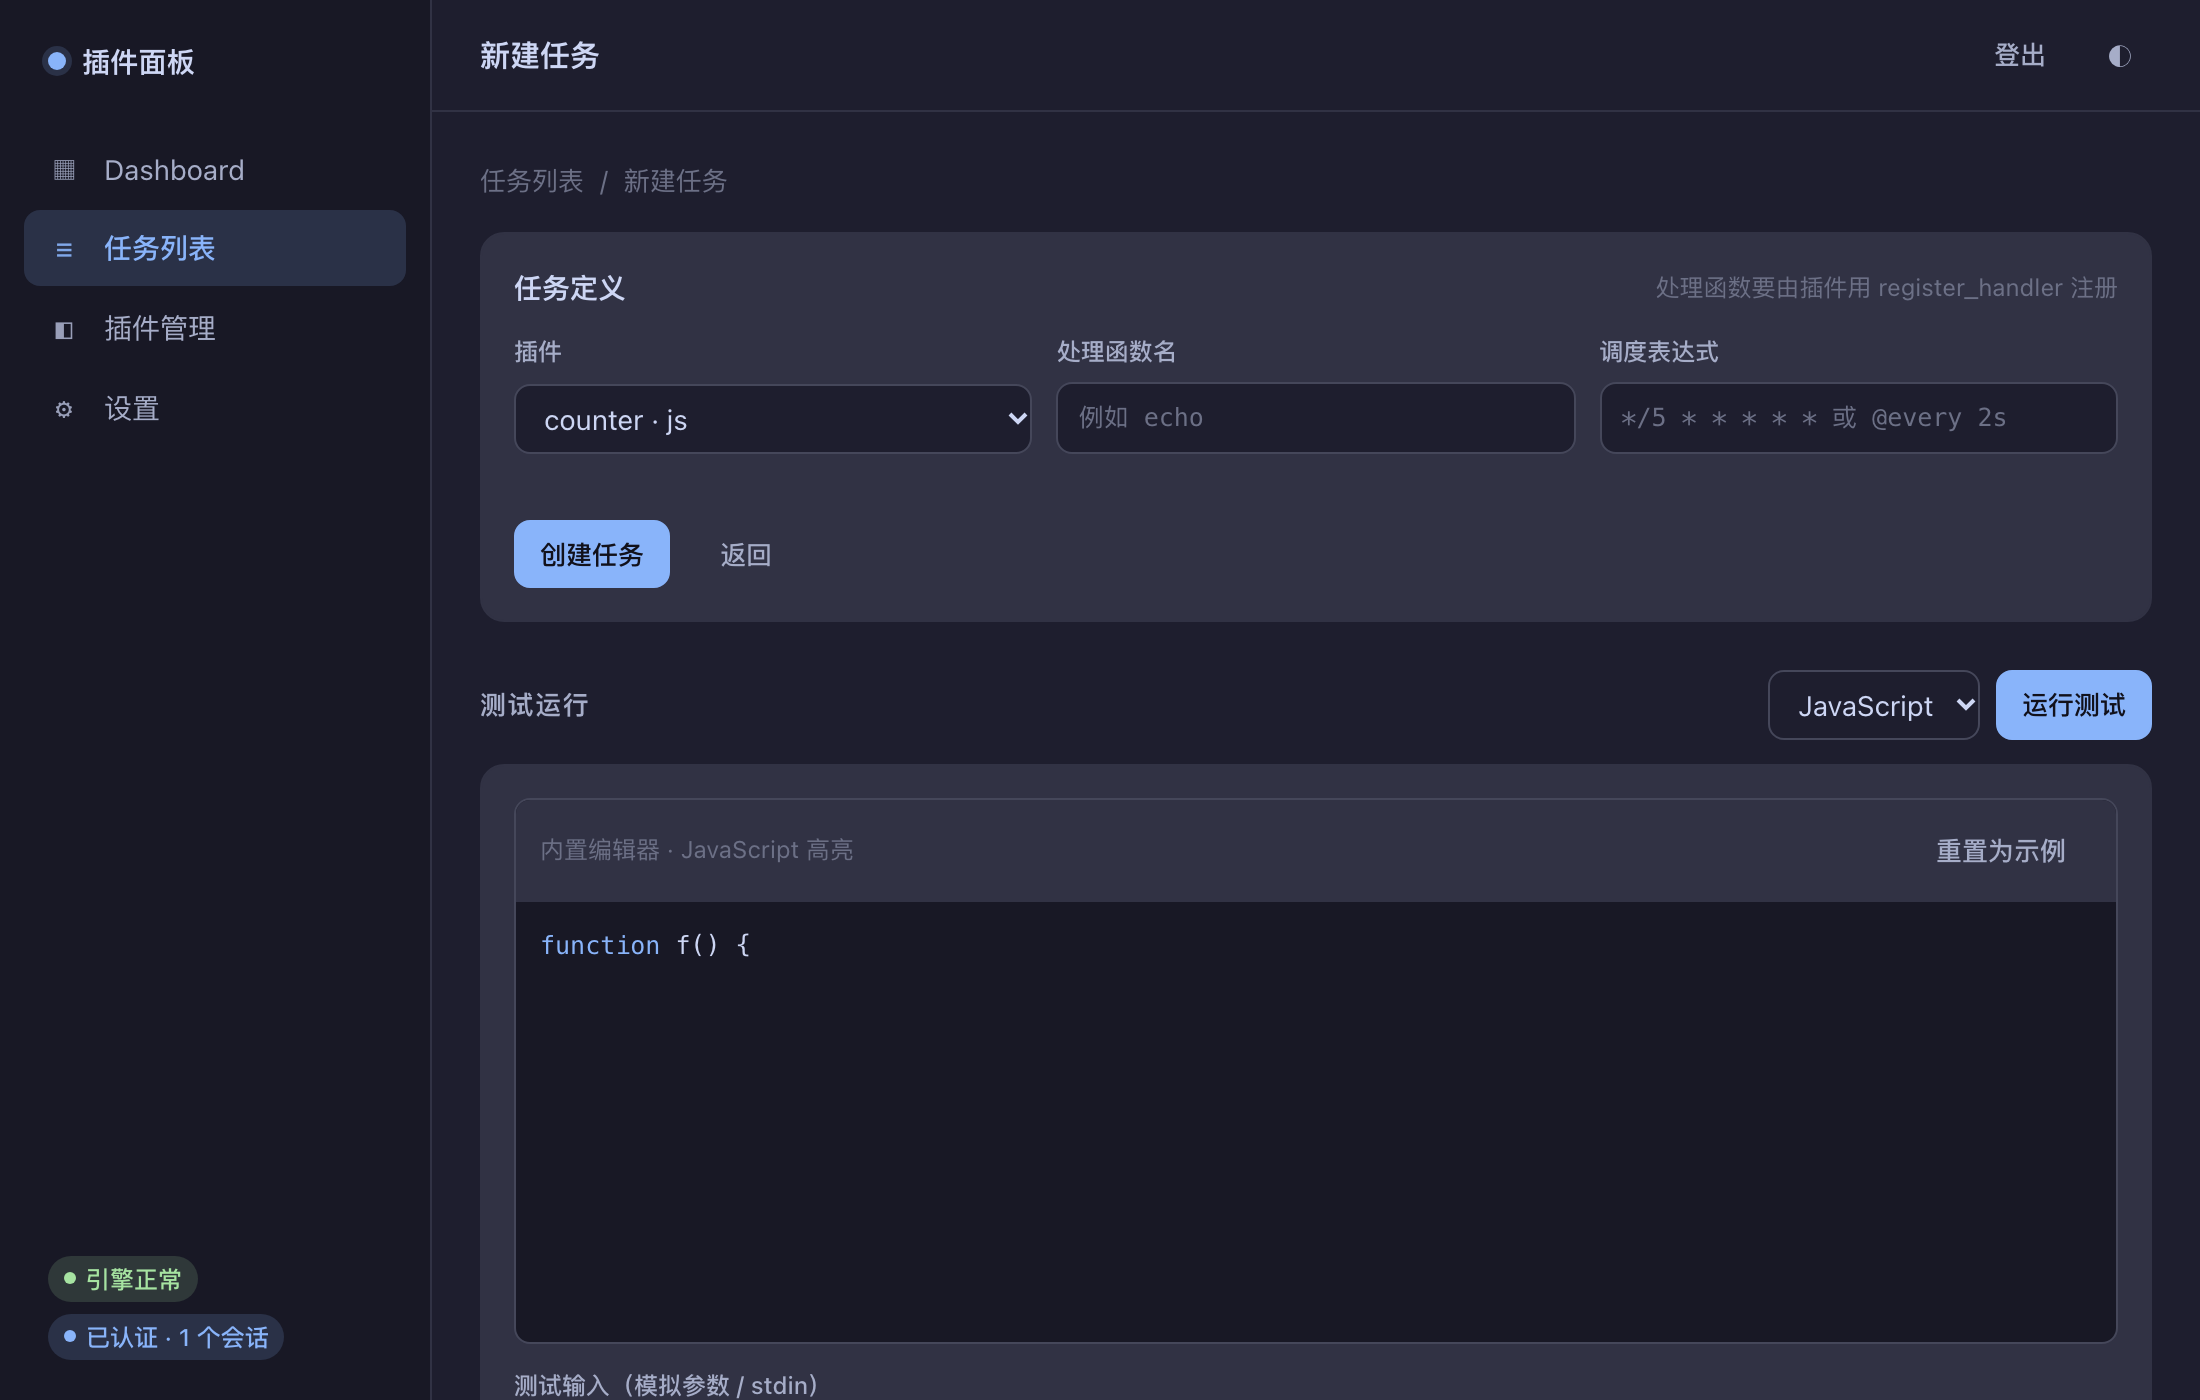
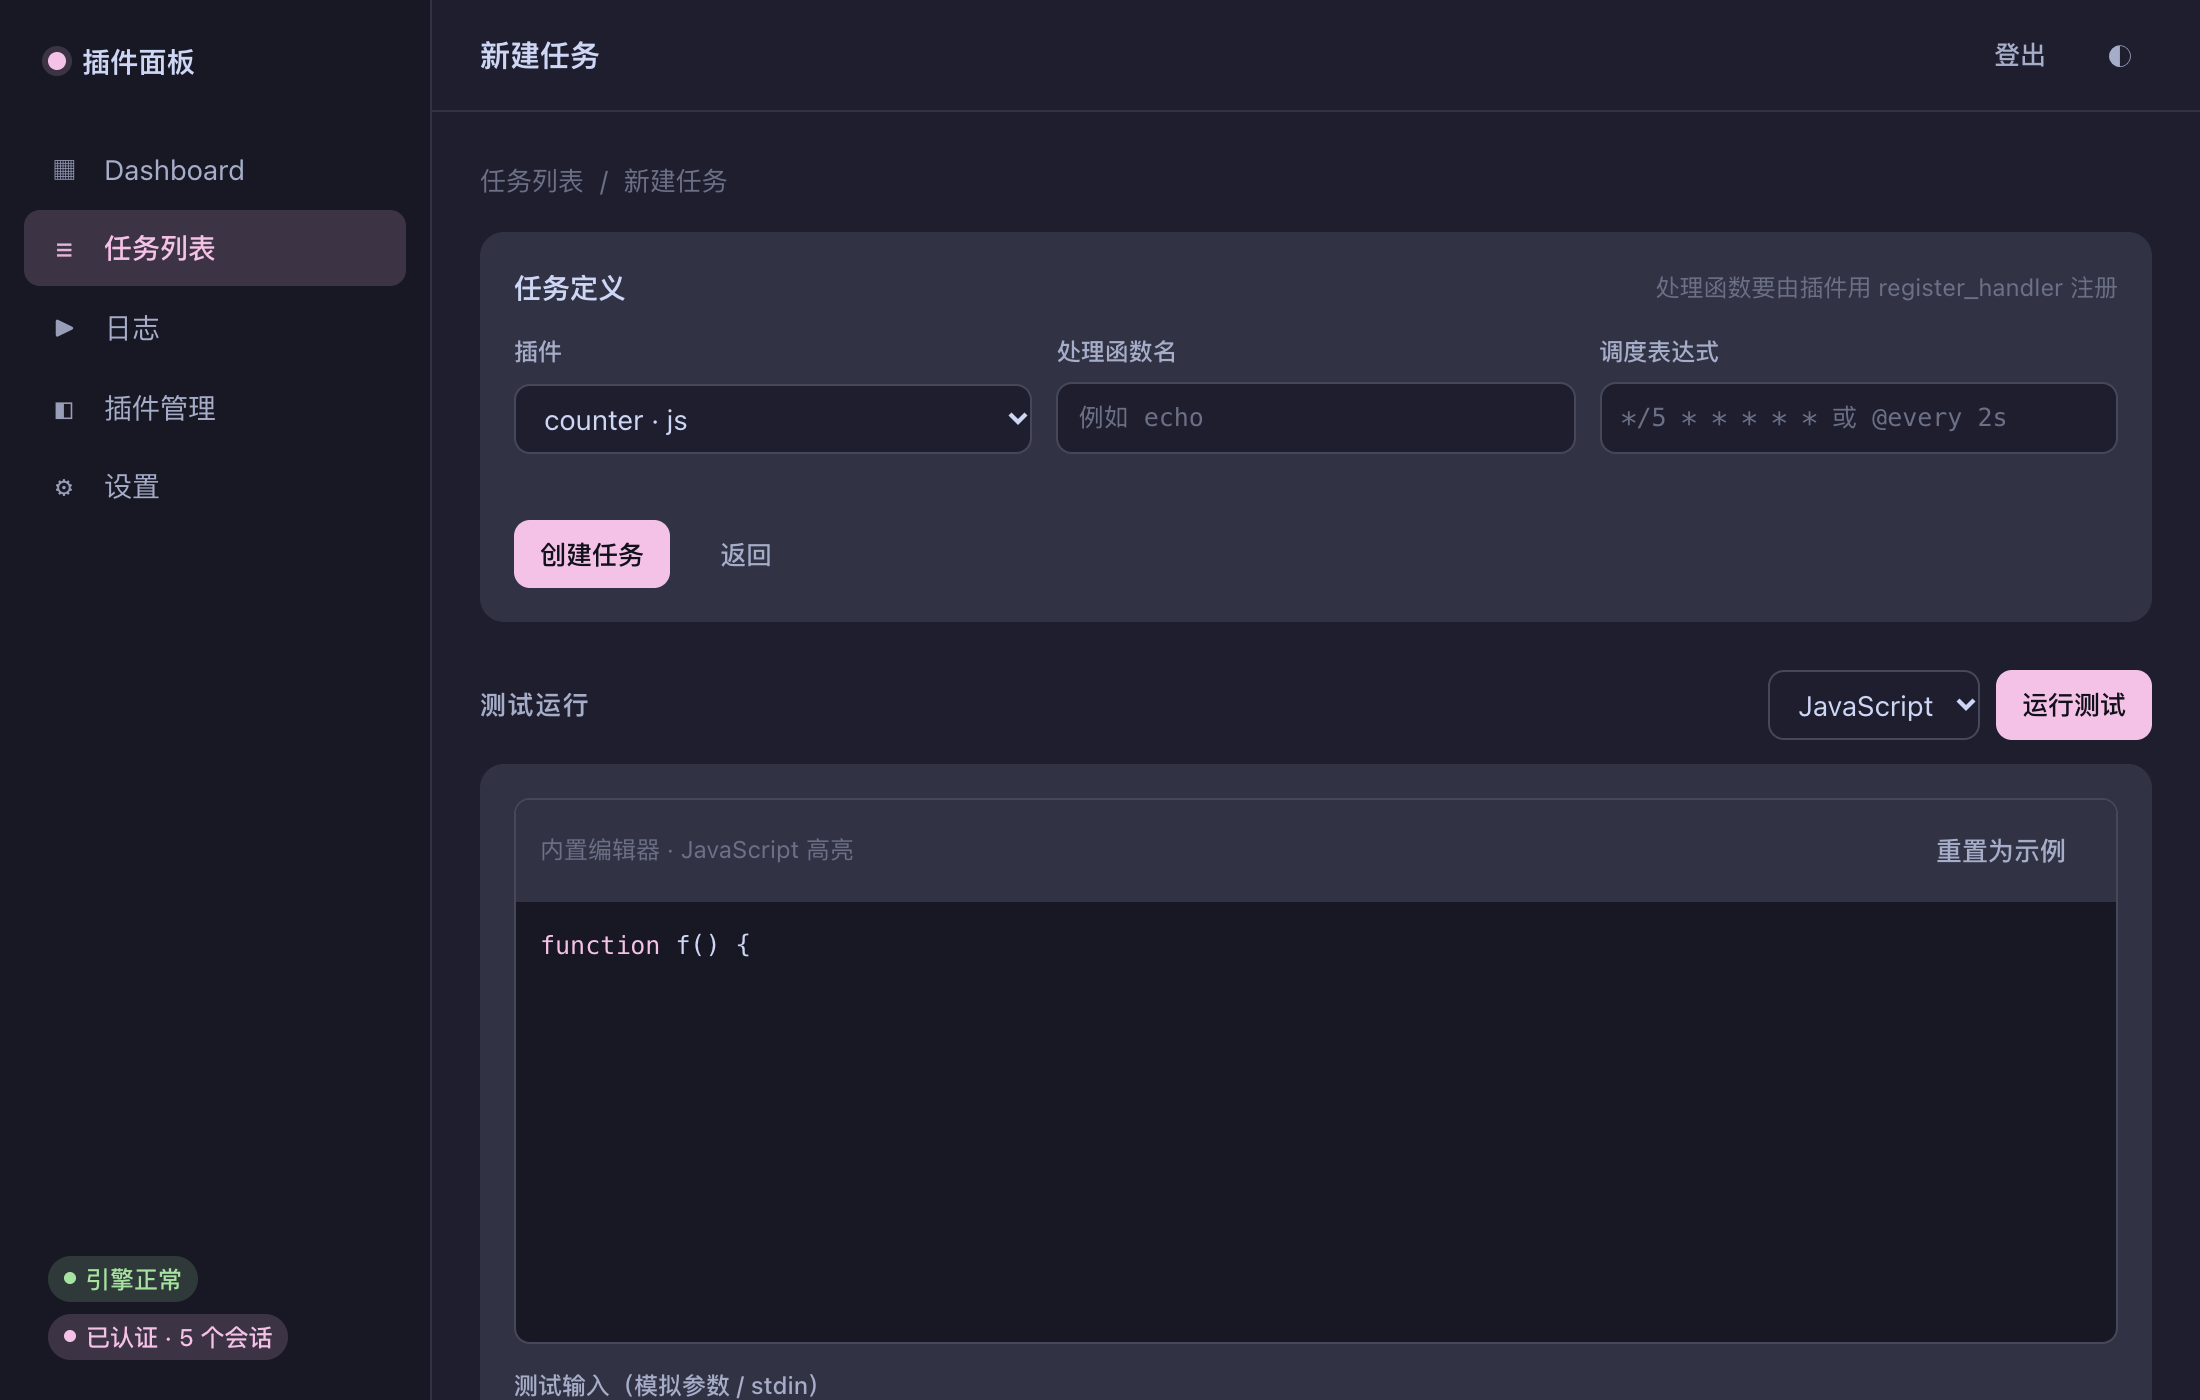
配色改成粉色系 + 一条会红的对比度检查
# 起因

「能够把颜色改成粉色系吗，看看网上有啥推荐的粉色方案」。

先说结论：这个项目的调色板本来就是 **Catppuccin**（Mocha/Latte），而 Catppuccin
自带粉色 —— 所以不需要换配色体系，换 accent 就行。官方值查过（catppuccin.com/palette）：
Mocha pink `#f5c2e7`、Latte pink `#ea76cb`。

# 但只换一个色值是错的，两个问题

① **亮色不能直接用官方的粉**：`#ea76cb` 在 Latte 的 `--bg #eff1f5` 上只有 **2.34:1**
   （现在的蓝是 4.34:1）。而 `--accent` 在这个项目里**既当底又当字** ——
   primary 按钮、链接、编辑器 token、控制台 system 行、激活的导航项。
   当字用就不合格了。所以亮色用加深的粉 `#b32d8f`：底色上 5.03:1、白字在它上面 5.69:1。

② **危险色会和粉撞**：Mocha red `#f38ba8` 本身就是粉红，和粉 accent 只差 **1.52:1**
   —— 任务失败在列表里读起来像"高亮"。换成 `#f87171`（5.93:1，色相 0° 离粉的 316°
   有 44°）。这个判断在真实界面上验过：截图里「删除」是橙红、「运行中」徽章是粉，
   一眼分得开。

# 定案

| | 暗色（Mocha） | 亮色（Latte） |
|---|---|---|
| accent | `#f5c2e7` 10.74:1 | `#b32d8f` 5.03:1 |
| accent-ink | `#11111b` 12.28:1 | `#ffffff` 5.69:1 |
| error | `#f87171`（原 `#f38ba8`） | `#d20f39` 不变 |
| success / warning | 不变 | **加深**（见下） |

第三方组件（PureDashboard 子集）**自动跟着变** —— 它读的是通用 token 名，
桥接段接的就是我们的 `--accent`。这是上一轮那个桥接的直接回报，一行没改。

# 顺带：一条新检查抓出了亮色主题**既有**的缺陷

`⑥b 配色对比度`：从 theme.css 解析两个主题块的 accent/text/error/success/warning，
算和 `--bg` 的对比度，要求全部 ≥4.5:1（WCAG AA 正文）。

换配色是"看着好看"就能改的事，对比度是**能不能读**的事 —— 钉住后者。

它当场报出亮色主题 `--success #40a02b` 只有 2.96:1、`--warning #df8e1d` 只有
**2.31:1**（都是 Latte 官方值，不是这次改出来的）。这两个当 `color` 用
（徽章文字、日志级别、编辑器 token、控制台 stderr），2.31:1 是真读不清。
加深成 `#2f7d1f`（4.56:1）/ `#9c5a08`（4.79:1）。它们不当底色用，所以
"白字在它上面变差"这件事不存在。

**验牙**：把亮色 accent 改回 `#ea76cb` → 报 `2.34:1（要 ≥4.5）`，退出码 1。
（第一次验牙我把 `#ea76cb` 植进了**暗色**块 —— 那里它对比度很高，当然不报。
是我的验法错了，不是检查没牙。）
[…]

diff --git a/web/css/theme.css b/web/css/theme.css
@@ -23,16 +23,21 @@
   --text-dim: #a6adc8;
   --text-mute: #6c7086;
 
-  --accent: #89b4fa;
-  --accent-ink: #11111b;  /* 强调色底上的文字 */
+  /* ---- 粉色系（第二十七轮）----
+     accent 从 Mocha 的蓝 #89b4fa 换成官方粉 #f5c2e7（对比度 10.74:1，比蓝还好）。
+     危险色**跟着改了**：原来用 Mocha red #f38ba8，它本身就是粉红 ——
+     和粉 accent 只差 1.52:1，任务失败在列表里读起来像"高亮"。
+     #f87171 是 5.93:1，且色相 0° 离粉的 316° 有 44°，"出事了"一眼能认出来。 */
+  --accent: #f5c2e7;      /* Mocha pink */
+  --accent-ink: #11111b;  /* 强调色底上的文字（深字在粉底上 12.28:1） */
   --success: #a6e3a1;
-  --error: #f38ba8;
+  --error: #f87171;
   --warning: #f9e2af;
 
   /* 徽章背景：强调色的低饱和底，避免整行都在喊 */
-  --accent-soft: rgba(137, 180, 250, 0.16);
+  --accent-soft: rgba(245, 194, 231, 0.16);
   --success-soft: rgba(166, 227, 161, 0.16);
-  --error-soft: rgba(243, 139, 168, 0.16);
+  --error-soft: rgba(248, 113, 113, 0.16);
   --warning-soft: rgba(249, 226, 175, 0.16);
   --mute-soft: rgba(108, 112, 134, 0.18);
 
@@ -53,13 +58,24 @@
   --text-dim: #6c6f85;
   --text-mute: #9ca0b0;
 
-  --accent: #1e66f5;
+  /* ---- 粉色系（第二十七轮）----
+     **不能**直接用 Latte 官方的粉 #ea76cb：它在这个底色上只有 2.34:1，
+     而 --accent 在这个项目里既当底（primary 按钮）又当字（链接、token、
+     控制台 system 行、激活的导航项）—— 当字用就不合格了。
+     所以亮色用加深的粉 #b32d8f：底色上 5.03:1，白字在它上面 5.69:1，两头都过。
+     危险色保持 Latte red #d20f39（4.80:1），它离这个粉 31° 且更深，不撞。 */
+  --accent: #b32d8f;
   --accent-ink: #ffffff;
-  --success: #40a02b;
+  /* 这两个**不是** Latte 的官方值（官方 #40a02b / #df8e1d 在这个底色上只有
+     2.96:1 / 2.31:1）。它们当 `color` 用（徽章文字、日志级别、编辑器 token、
+     控制台 stderr），2.31:1 是真的读不清 —— 是 `⑥b 配色对比度` 那条检查
+     抓出来的既有缺陷。加深后 4.56:1 / 4.79:1。它们不当底色用，所以白字变差
+     这件事不存在。 */
+  --success: #2f7d1f;
   --error: #d20f39;
-  --warning: #df8e1d;
+  --warning: #9c5a08;
 
-  --accent-soft: rgba(30, 102, 245, 0.12);
+  --accent-soft: rgba(179, 45, 143, 0.12);
   --success-soft: rgba(64, 160, 43, 0.14);
   --error-soft: rgba(210, 15, 57, 0.12);
   --warning-soft: rgba(223, 142, 29, 0.16);

diff --git a/docs/testing.md b/docs/testing.md
@@ -34,6 +34,15 @@ cargo test
 # ①c 前端资源静态检查（web/ 与 plugins/demo/）：ES Module 语法、没有内联 CSS/JS、
 #     CSS 里没有硬编码色值、plugins/js/*.js 没用嵌入式 QuickJS 不存在的全局
 #
+#     第六节还有一条「⑥b 配色对比度」：从 theme.css 里解析出两个主题块的
+#     --accent/--text/--error/--success/--warning，算它们和 --bg 的对比度，
+#     要求全部 ≥4.5:1（WCAG AA 正文）。换配色是"看着好看"就能改的事，
+#     而对比度是**能不能读**的事 —— 这条钉住后者。
+#     第二十七轮把 accent 换成粉色时它当场抓出两件事：
+#       · Latte 官方的粉 #ea76cb 在它自己底色上只有 2.34:1（当文字不合格）
+#       · 亮色主题**原本就有的**缺陷：--success 2.96:1、--warning 2.31:1
+#     验牙：把亮色 accent 改回 #ea76cb → 报 "2.34:1（要 ≥4.5）"。
+#
 #     第二十七轮起多一节「⑦ 第三方组件（web/vendor/）」：
 #       · vendor 的每个 .css 都在 index.html 里被 link（漏 link 的症状是组件没样式）
 #       · FORK.md 记了上游版本 + commit，且**列全**目录里的每个文件

diff --git a/docs/architecture.md b/docs/architecture.md
@@ -117,7 +117,7 @@ rust-plugin-panel/
 │   └── python/                模块 `host_api`（stdlib sqlite3/urllib + 运行器）
 ├── web/                主面板前端（原生 ES Module + hash 路由，无框架；共 31 个文件）
 │   ├── index.html      壳结构（侧边栏 / 顶栏 / 视图容器 / 消息条，无内联 CSS/JS）
-│   ├── css/            reset / theme（Mocha+Latte 变量）/ layout / components
+│   ├── css/            reset / theme（Mocha+Latte 变量，粉色系 accent）/ layout / components
 │   ├── js/             app（路由+鉴权）· api · editor（自带编辑器）· confirm（二次确认）
 │   │   │               · logstream（SSE 日志流）· mock
 │   │   └── views/      task-list · task-editor · plugin-list · plugin-source · log-view
